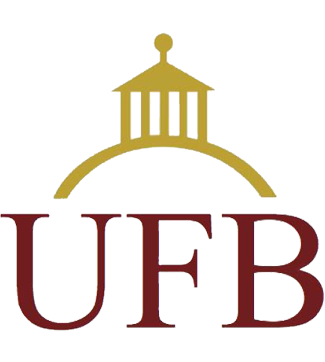
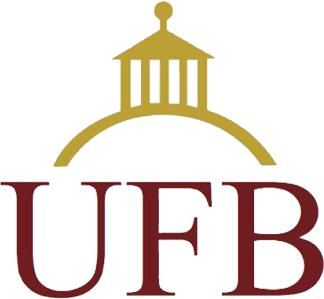
Added sponsors

diff --git a/Phase 2/Site/sponsors.html b/Phase 2/Site/sponsors.html
@@ -99,18 +99,17 @@
 				<div class="section">
 					<h1 class="capsTitle">2016 SPONSORS</h1>
 
-					<div class="subsection">
+					<div class="subsection sponsorDiv">
+						<img class="sponsorLogo" id="autodeskLogo" src="images/sponsors/autodesk.png" />
 						<p>
-							In addition to standard sponsorship opportunities, the Design Expo takes place on the Saturday of the conference. Sponsors and organizations set up tables and attendees walk around and interact directly with organizations’ representatives. It serves as a vehicle for teaching, sharing, and publicity!
+							With millions of professional users, Autodesk is a world leader in 3D design, engineering, and entertainment software for manufacturing, building and construction, and media and entertainment. Autodesk Education helps prepare the next generation to imagine, design, and create a better world.
 						</p>
-
-						<p>Want to get involved with the Design Expo?<br />
-							Email <a href="mailto:community@abetterworldbydesign.com">community@abetterworldbydesign.com</a></p>
-
-						<p>Want to become a sponsor?<br />
-							Email <a href="mailto:finance@abetterworldbydesign.com">finance@abetterworldbydesign.com</a></p>
-
-						<p>See our <a href="http://www.abetterworldbydesign.com/2015/sponsors/">2015 Sponsors</a></p>
+					</div>
+					<div class="subsection sponsorDiv">
+						<img class="sponsorLogo" id="ufbLogo" src="images/sponsors/ufb.png" />
+						<p>
+							The Undergraduate Finance Board was created on November 26, 1984, as a joint agreement between the Undergraduate Council of Students and the Student Union. It is a "A Central Budget Group," for the organizations. All members of the Undergraduate Finance Board are undergraduate students at Brown University, ensuring that the students' money is in student hands.
+						</p>
 					</div>
 				</div>
 			</div>

diff --git a/Phase 2/Site/styles/sponsors.css b/Phase 2/Site/styles/sponsors.css
@@ -4,3 +4,21 @@
 	background: -webkit-linear-gradient(transparent, transparent),
                  url(../images/banners/sponsors.jpg) no-repeat;
 }
+
+.sponsorDiv {
+	padding-top: 30px;
+}
+
+.sponsorLogo {
+	margin-bottom: 30px;
+}
+
+#autodeskLogo {
+	width: 100%;
+	max-width: 500px;
+}
+
+#ufbLogo {
+	width: 50%;
+	max-width: 250px;
+}
